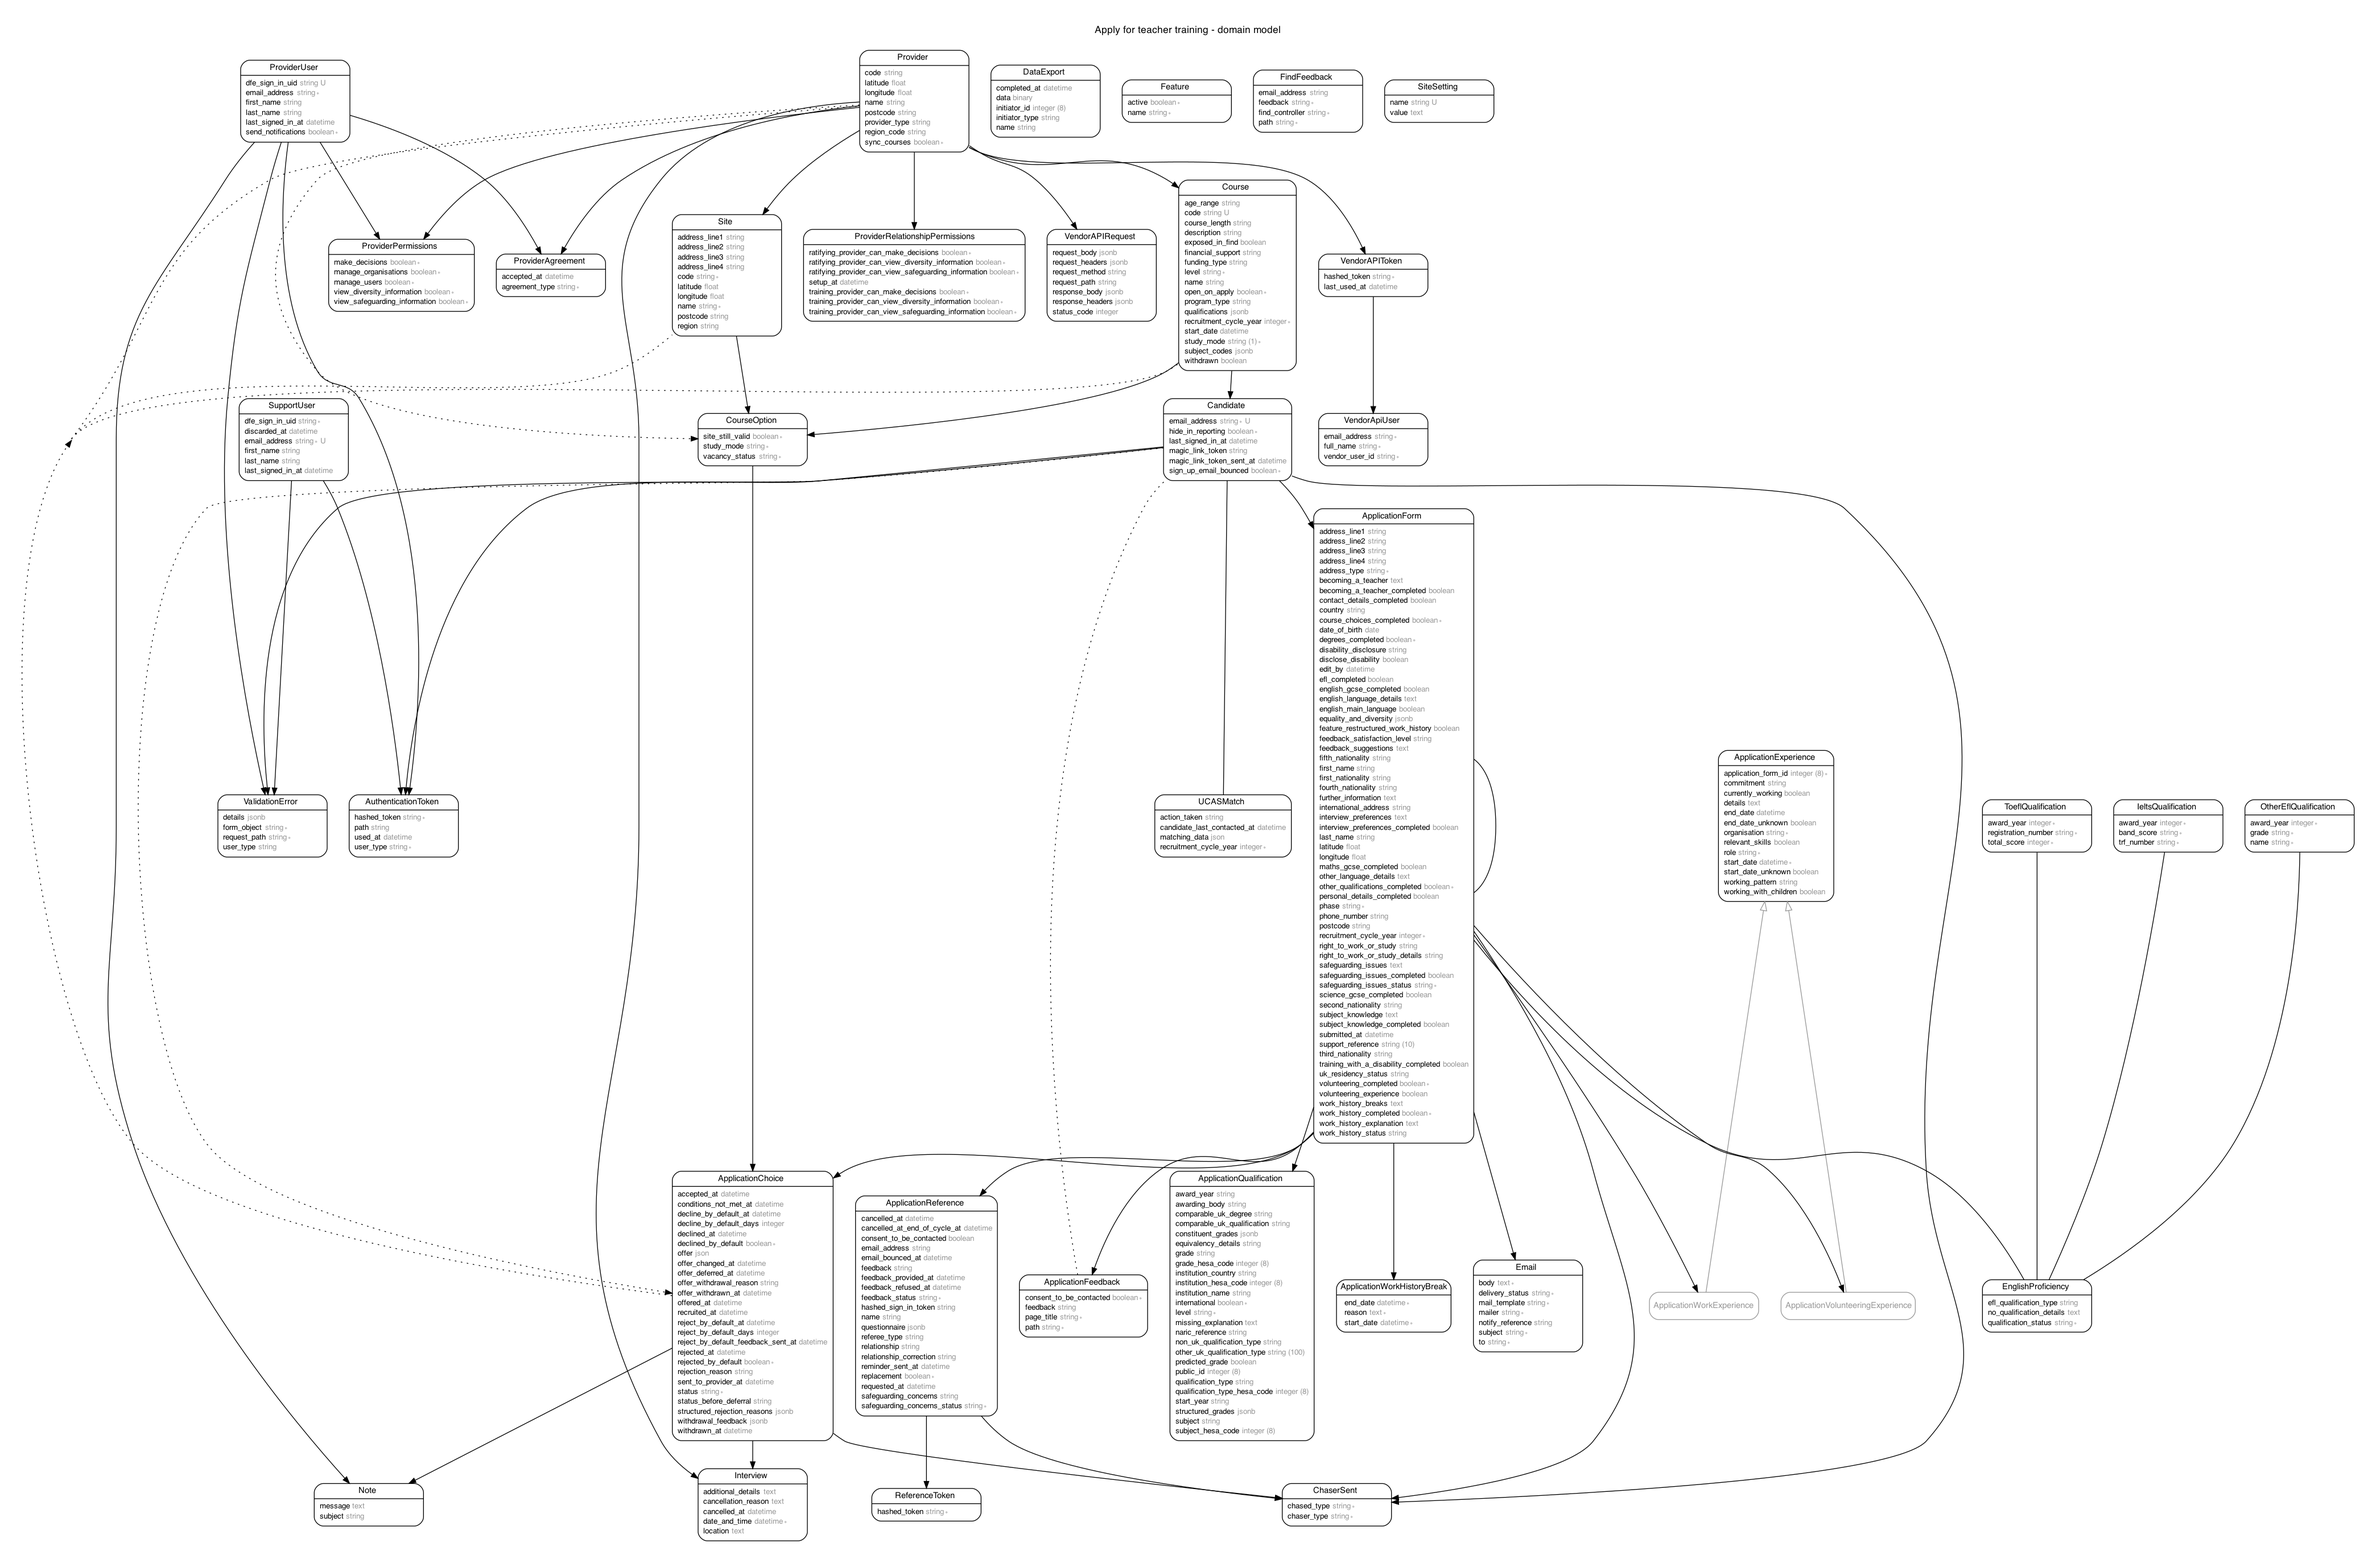
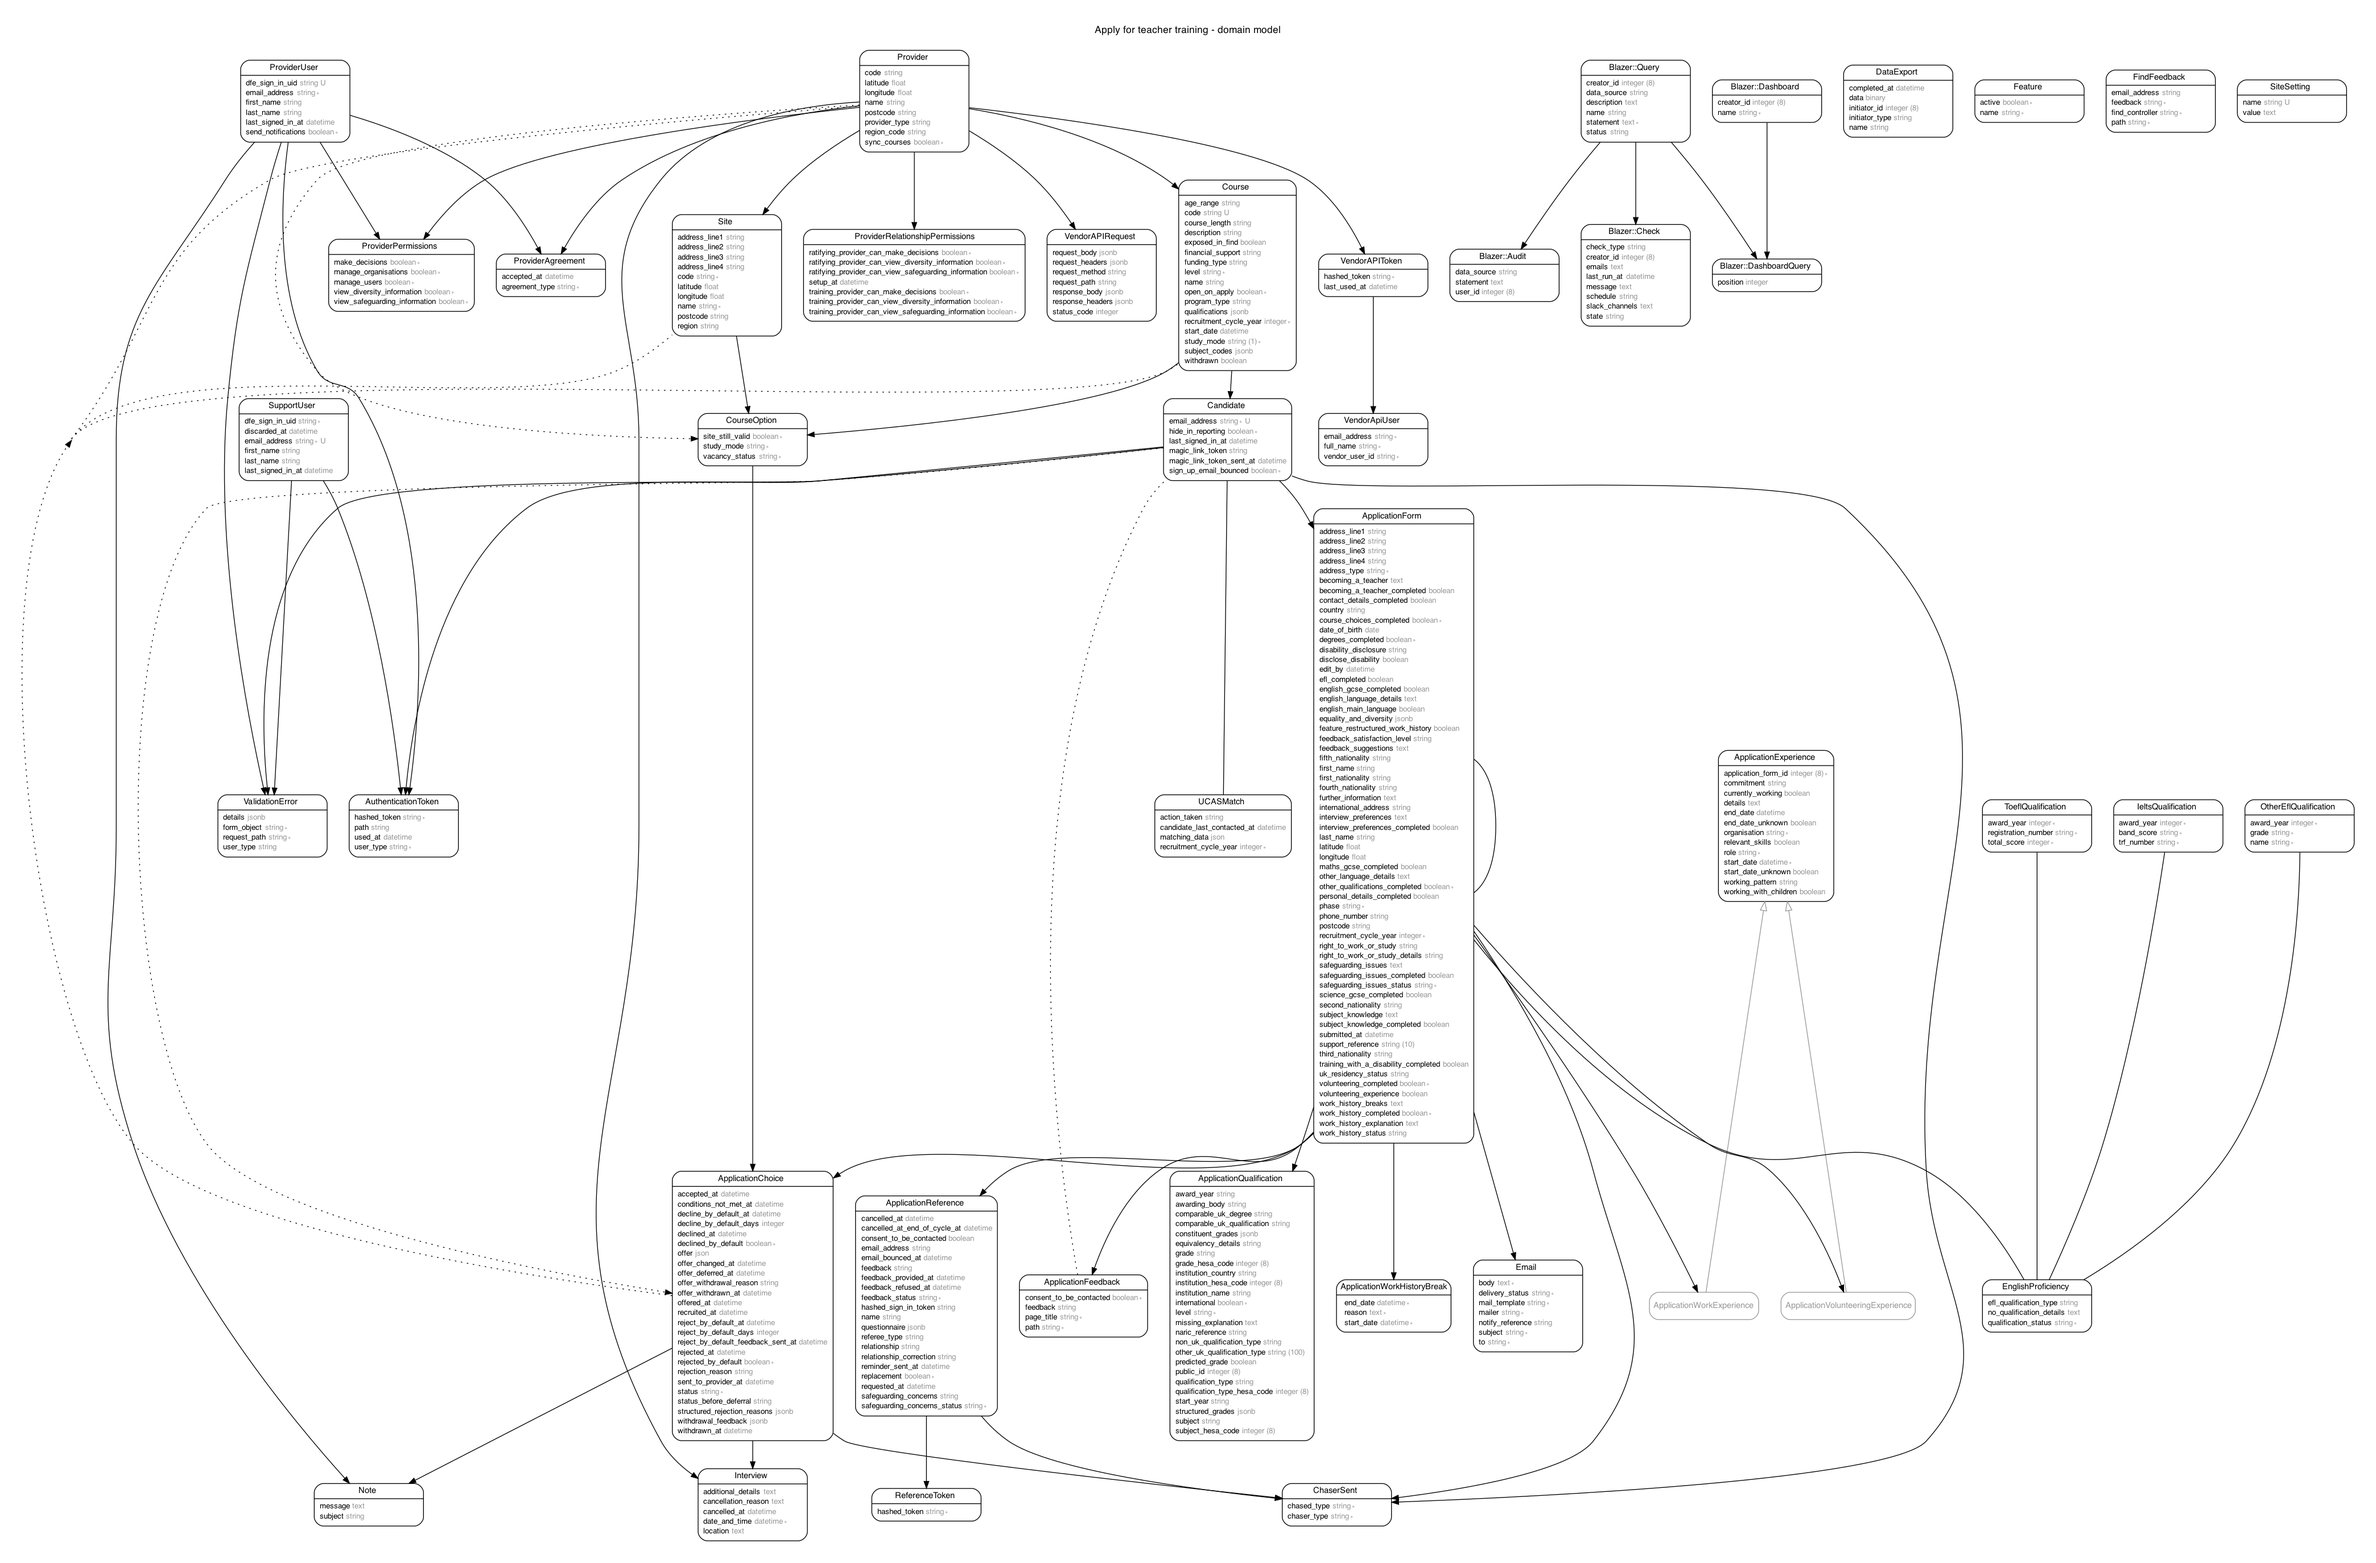
Add Blazer gem for running SQL queries

diff --git a/app/assets/config/manifest.js b/app/assets/config/manifest.js
@@ -1,0 +1,1 @@
+// This is just here for Blazer.

diff --git a/db/schema.rb b/db/schema.rb
@@ -10,9 +10,9 @@
 #
 # It's strongly recommended that you check this file into your version control system.
 
-ActiveRecord::Schema.define(version: 2021_02_10_142048) do
+ActiveRecord::Schema.define(version: 2021_02_10_142049) do
 
-  create_sequence "application_choices_id_seq"
+  create_sequence "application_choices_id_seq1"
   create_sequence "application_experiences_id_seq"
   create_sequence "application_feedback_id_seq"
   create_sequence "application_forms_id_seq"
@@ -20,6 +20,11 @@ ActiveRecord::Schema.define(version: 2021_02_10_142048) do
   create_sequence "application_work_history_breaks_id_seq"
   create_sequence "audits_id_seq"
   create_sequence "authentication_tokens_id_seq"
+  create_sequence "blazer_audits_id_seq"
+  create_sequence "blazer_checks_id_seq"
+  create_sequence "blazer_dashboard_queries_id_seq"
+  create_sequence "blazer_dashboards_id_seq"
+  create_sequence "blazer_queries_id_seq"
   create_sequence "candidates_id_seq"
   create_sequence "chasers_sent_id_seq"
   create_sequence "course_options_id_seq"
@@ -271,6 +276,62 @@ ActiveRecord::Schema.define(version: 2021_02_10_142048) do
     t.string "path"
     t.index ["hashed_token"], name: "index_authentication_tokens_on_hashed_token", unique: true
     t.index ["user_id", "user_type"], name: "index_authentication_tokens_on_id_and_type"
+  end
+
+  create_table "blazer_audits", force: :cascade do |t|
+    t.bigint "user_id"
+    t.bigint "query_id"
+    t.text "statement"
+    t.string "data_source"
+    t.datetime "created_at"
+    t.index ["query_id"], name: "index_blazer_audits_on_query_id"
+    t.index ["user_id"], name: "index_blazer_audits_on_user_id"
+  end
+
+  create_table "blazer_checks", force: :cascade do |t|
+    t.bigint "creator_id"
+    t.bigint "query_id"
+    t.string "state"
+    t.string "schedule"
+    t.text "emails"
+    t.text "slack_channels"
+    t.string "check_type"
+    t.text "message"
+    t.datetime "last_run_at"
+    t.datetime "created_at", precision: 6, null: false
+    t.datetime "updated_at", precision: 6, null: false
+    t.index ["creator_id"], name: "index_blazer_checks_on_creator_id"
+    t.index ["query_id"], name: "index_blazer_checks_on_query_id"
+  end
+
+  create_table "blazer_dashboard_queries", force: :cascade do |t|
+    t.bigint "dashboard_id"
+    t.bigint "query_id"
+    t.integer "position"
+    t.datetime "created_at", precision: 6, null: false
+    t.datetime "updated_at", precision: 6, null: false
+    t.index ["dashboard_id"], name: "index_blazer_dashboard_queries_on_dashboard_id"
+    t.index ["query_id"], name: "index_blazer_dashboard_queries_on_query_id"
+  end
+
+  create_table "blazer_dashboards", force: :cascade do |t|
+    t.bigint "creator_id"
+    t.string "name"
+    t.datetime "created_at", precision: 6, null: false
+    t.datetime "updated_at", precision: 6, null: false
+    t.index ["creator_id"], name: "index_blazer_dashboards_on_creator_id"
+  end
+
+  create_table "blazer_queries", force: :cascade do |t|
+    t.bigint "creator_id"
+    t.string "name"
+    t.text "description"
+    t.text "statement"
+    t.string "data_source"
+    t.string "status"
+    t.datetime "created_at", precision: 6, null: false
+    t.datetime "updated_at", precision: 6, null: false
+    t.index ["creator_id"], name: "index_blazer_queries_on_creator_id"
   end
 
   create_table "candidates", force: :cascade do |t|

diff --git a/db/migrate/20210210142049_install_blazer.rb b/db/migrate/20210210142049_install_blazer.rb
@@ -1,0 +1,47 @@
+class InstallBlazer < ActiveRecord::Migration[6.0]
+  def change
+    create_table :blazer_queries do |t|
+      t.references :creator
+      t.string :name
+      t.text :description
+      t.text :statement
+      t.string :data_source
+      t.string :status
+      t.timestamps null: false
+    end
+
+    create_table :blazer_audits do |t|
+      t.references :user
+      t.references :query
+      t.text :statement
+      t.string :data_source
+      t.datetime :created_at
+    end
+
+    create_table :blazer_dashboards do |t|
+      t.references :creator
+      t.string :name
+      t.timestamps null: false
+    end
+
+    create_table :blazer_dashboard_queries do |t|
+      t.references :dashboard
+      t.references :query
+      t.integer :position
+      t.timestamps null: false
+    end
+
+    create_table :blazer_checks do |t|
+      t.references :creator
+      t.references :query
+      t.string :state
+      t.string :schedule
+      t.text :emails
+      t.text :slack_channels
+      t.string :check_type
+      t.text :message
+      t.datetime :last_run_at
+      t.timestamps null: false
+    end
+  end
+end

diff --git a/spec/system/support_interface/blazer_sql_spec.rb b/spec/system/support_interface/blazer_sql_spec.rb
@@ -1,0 +1,36 @@
+require 'rails_helper'
+
+RSpec.feature 'Blazer SQL tool' do
+  include DfESignInHelpers
+
+  scenario 'Support user views the Blazer' do
+    when_i_visit_the_blazer_interface
+    then_i_should_be_redirected_to_login_page
+
+    when_i_sign_in_via_dfe_sign_in
+    then_i_visit_the_sidekiq_interface
+
+    then_i_should_see_the_sidekiq_admin_interface
+  end
+
+  def when_i_visit_the_blazer_interface
+    visit '/support/blazer'
+  end
+
+  def then_i_should_be_redirected_to_login_page
+    expect(page).to have_current_path support_interface_sign_in_path
+  end
+
+  def when_i_sign_in_via_dfe_sign_in
+    sign_in_as_support_user
+  end
+
+  def then_i_visit_the_sidekiq_interface
+    when_i_visit_the_blazer_interface
+  end
+
+  def then_i_should_see_the_sidekiq_admin_interface
+    expect(page).to have_content 'New Query'
+    expect(page).to have_current_path '/support/blazer'
+  end
+end

diff --git a/config/environments/production.rb b/config/environments/production.rb
@@ -1,6 +1,13 @@
 Rails.application.configure do
   # Settings specified here will take precedence over those in config/application.rb.
 
+  if HostingEnvironment.review?
+    # On Heroku we don't have a read replica, so use the main database connection.
+    config.x.read_only_database_url = ENV.fetch('DATABASE_URL')
+  else
+    config.x.read_only_database_url = ENV.fetch('BLAZER_DATABASE_URL')
+  end
+
   # Code is not reloaded between requests.
   config.cache_classes = true
 

diff --git a/config/routes.rb b/config/routes.rb
@@ -947,6 +947,9 @@ Rails.application.routes.draw do
     mount Sidekiq::Web => '/sidekiq', constraints: SupportUserConstraint.new
     get '/sidekiq', to: redirect('/support/sign-in'), status: 302
 
+    mount Blazer::Engine => '/blazer', constraints: SupportUserConstraint.new
+    get '/blazer', to: redirect('/support/sign-in'), status: 302
+
     get '*path', to: 'errors#not_found'
   end
 

diff --git a/config/environments/development.rb b/config/environments/development.rb
@@ -62,4 +62,6 @@ Rails.application.configure do
     logger.formatter = config.log_formatter
     config.logger    = ActiveSupport::TaggedLogging.new(logger)
   end
+
+  config.x.read_only_database_url = "postgres://localhost/bat_apply_development"
 end

diff --git a/config/environments/test.rb b/config/environments/test.rb
@@ -50,4 +50,6 @@ Rails.application.configure do
 
     Bullet.raise = true # raise an error if n+1 query occurs
   end
+
+  config.x.read_only_database_url = "postgres://localhost/bat_apply_test"
 end
